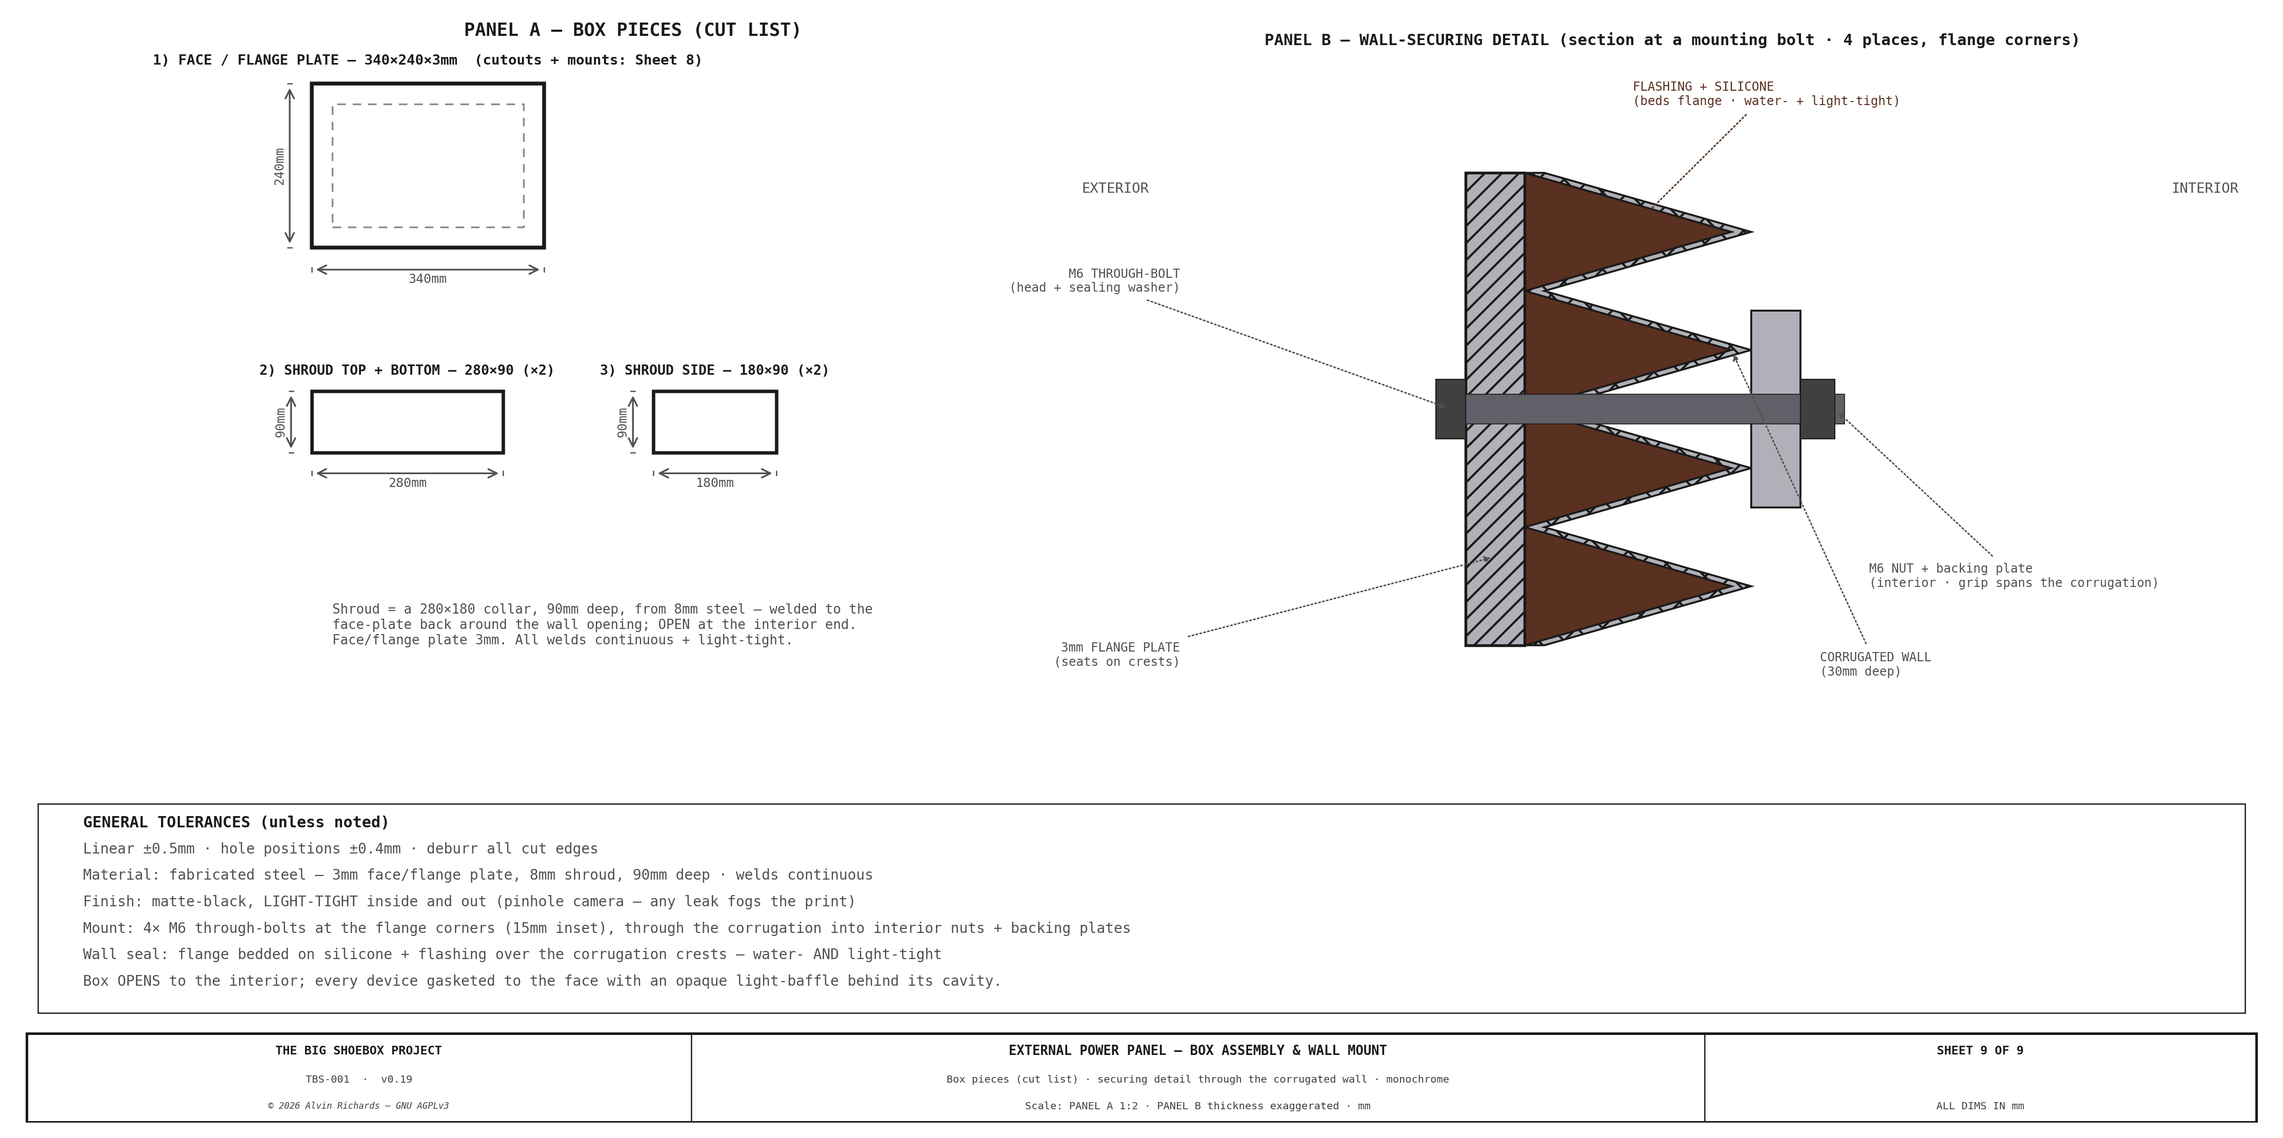
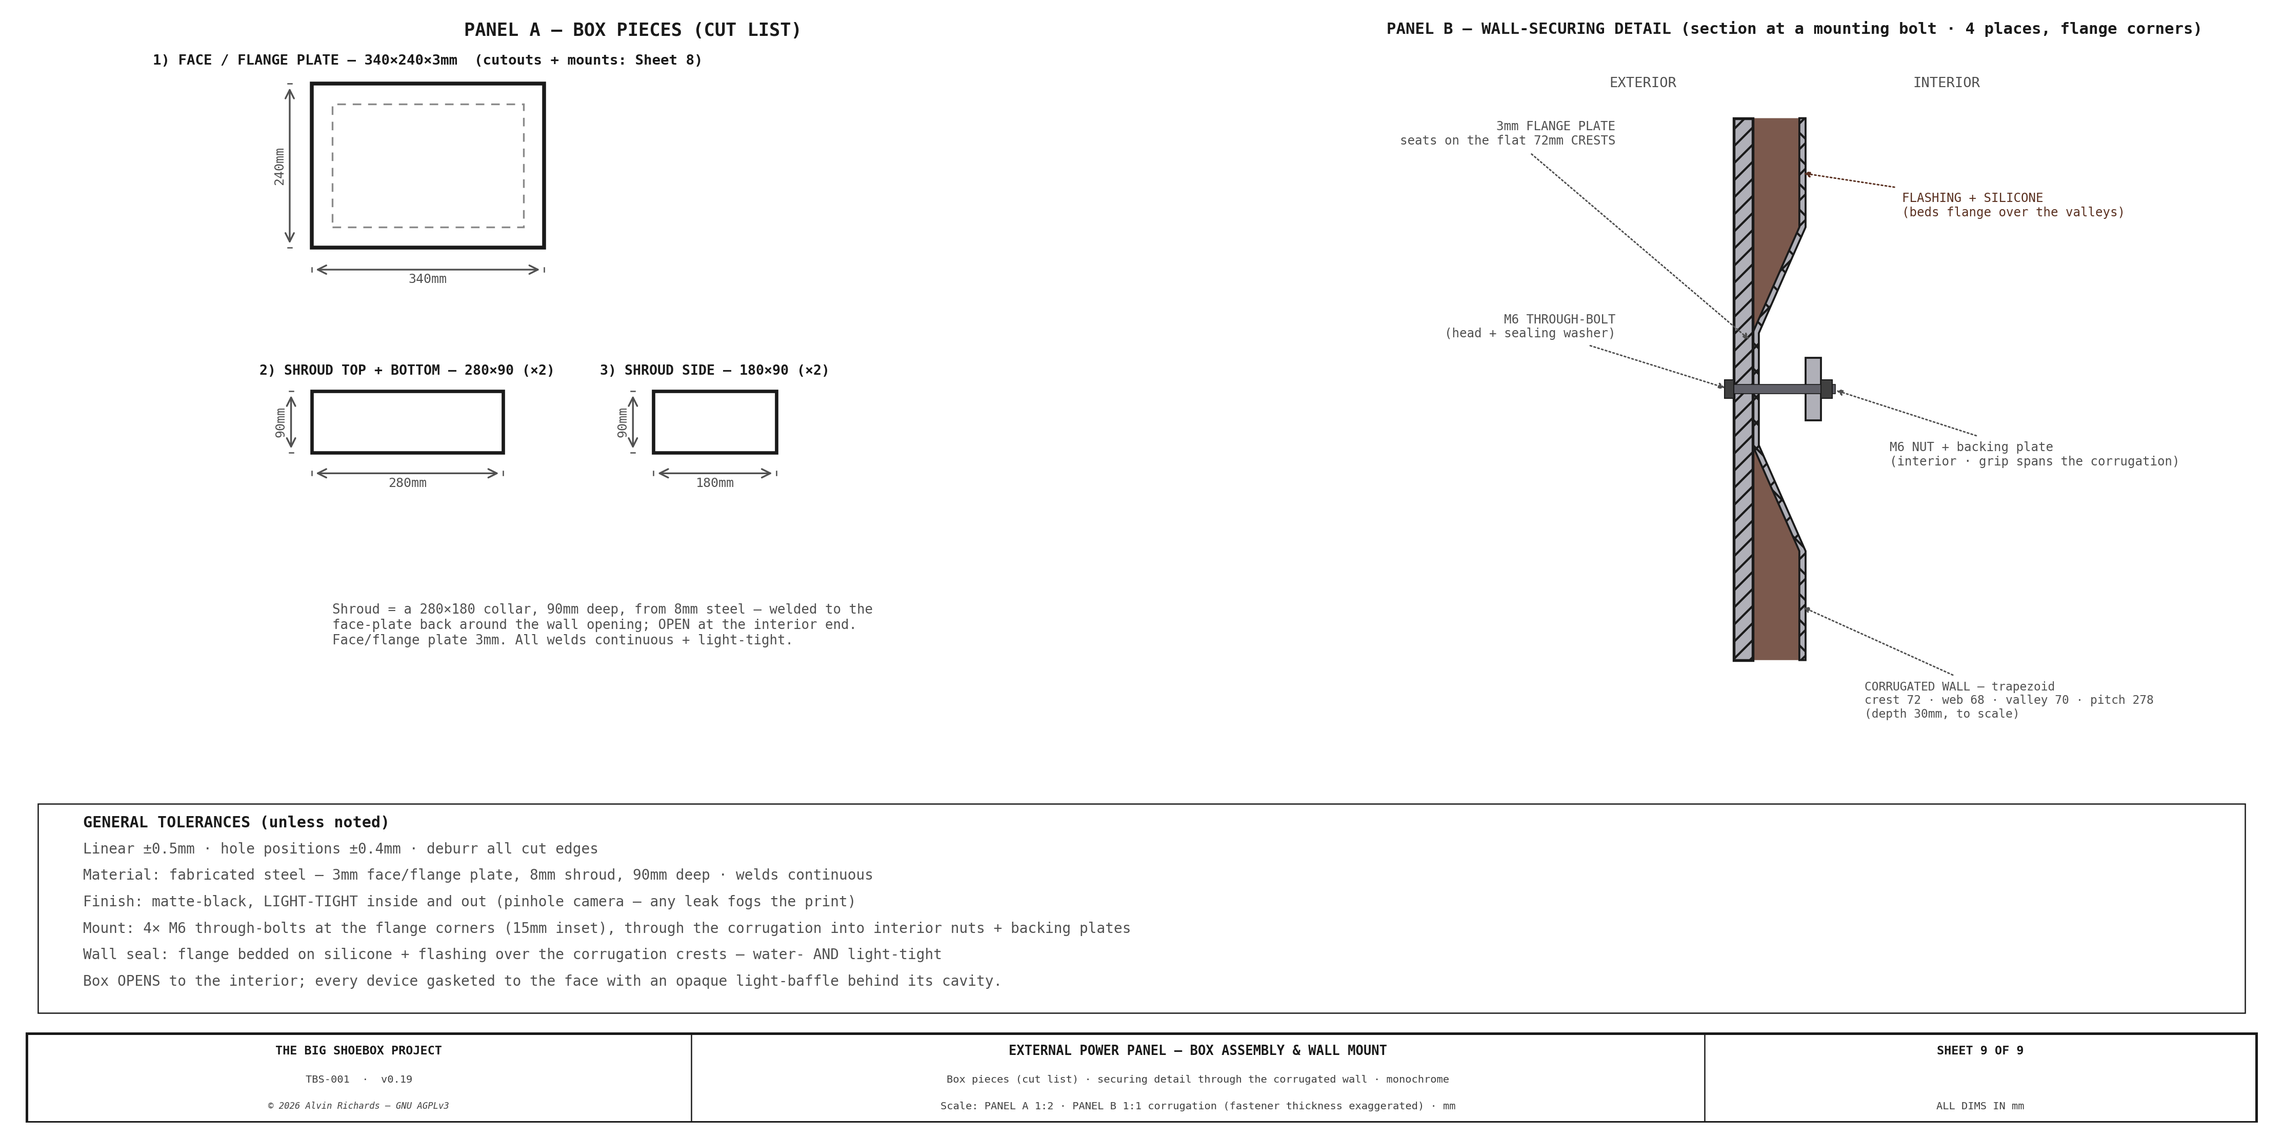
Electrical Sheet 9: draw the wall corrugation to-scale as a trapezoid, not a peak
The wall-securing detail (Panel B) drew the corrugated container side wall as a
triangular sawtooth, so the flange read as seating on a point. Researched the
real ISO-typical profile (trapezium: crest 72 / web 68 / valley 70 / depth 36 /
pitch 278mm; ISO 668 standardizes sizes, not corrugation geometry) and rebuilt
the section as a true 1:1 trapezoid: flat crests + sloped webs + flat valleys, a
crest centered on the bolt with a full valley each side, depth =
CONTAINER_CORRUGATION_DEPTH (30mm). Flange now seats on the flat 72mm crest and
bridges the valleys; profile dimensioned on the sheet. Fastener thickness stays
exaggerated. Rendered + visually verified; lint + hardwired-literal gates pass.
Sheet 6 (penetration box) has the same triangle — re-scoped in TODO for the
identical fix.

diff --git a/src/generators/generate_electrical_diagram.py b/src/generators/generate_electrical_diagram.py
@@ -2499,24 +2499,31 @@ def draw_sheet9():
     # seats on the corrugation CRESTS, the seal beds the flange↔wall interface, and the
     # through-bolt grip spans the ~30mm corrugation depth to an interior backing plate + nut.
     axb = fig.add_subplot(gs[0, 1]); axb.set_aspect("equal"); axb.axis("off")
-    axb.set_xlim(-40, 150); axb.set_ylim(-70, 80)
-    fex = 4.0                                     # flange/fastener scale (thin metal exaggerated)
-    dsc = 1.4                                      # corrugation-depth scale
-    CD = CONTAINER_CORRUGATION_DEPTH * dsc         # drawn corrugation depth (crest → trough)
-    ts = 4.0                                        # wall sheet thickness (exaggerated)
+    fex = 4.0                                      # fastener/flange scale (thin metal exaggerated)
+    ts  = 4.0                                        # wall sheet thickness (drawn)
+    CD  = CONTAINER_CORRUGATION_DEPTH               # 30mm corrugation depth — TRUE 1:1 scale
     CDi = CD + ts                                   # interior face of the troughs
     FTs = FT * fex                                  # flange thickness drawn
-    # corrugated wall sheet — exterior crests at x=0 (flange side), interior troughs at x=CD
-    ys = [-48, -36, -24, -12, 0, 12, 24, 36, 48]
-    outer = [(0.0 if i % 2 == 0 else CD, y) for i, y in enumerate(ys)]
-    axb.add_patch(mpatches.Polygon(outer + [(x + ts, y) for (x, y) in outer][::-1],
+    # ISO-typical side-wall corrugation (trapezium): crest 72 · web 68 · valley 70 · pitch 278mm
+    # (shipped.com 20'GP wall section). Drawn to the real along-wall scale so the flange seats on the
+    # FLAT crests (not points); depth = the project's conservative CONTAINER_CORRUGATION_DEPTH. A crest
+    # is centered on the bolt; one full valley shows each side (next crests fall outside this window).
+    CR, WB, VL = 72.0, 68.0, 70.0
+    YV = CR / 2 + WB + VL                            # 174 — central crest + a full valley each side
+    axb.set_xlim(-95, 150); axb.set_ylim(-YV - 60, YV + 66)
+    half, yq, i = [(0.0, CR / 2)], CR / 2, 0         # exterior surface (x, y) up from crest center
+    while yq < YV:
+        length, xend = [(WB, CD), (VL, CD), (WB, 0.0), (CR, 0.0)][i % 4]
+        yq += length; half.append((xend, min(yq, YV))); i += 1
+    ext = [(x, -y) for (x, y) in reversed(half)] + half   # crest-centered, flat crests + flat valleys
+    # corrugated wall sheet (constant thickness)
+    axb.add_patch(mpatches.Polygon(ext + [(x + ts, y) for (x, y) in ext][::-1],
                                    closed=True, fc=C_STEEL, ec=C_OUT, lw=0.9, hatch="xx", zorder=3))
-    # flashing + silicone — beds the flange to the corrugation (fills the exterior valleys)
-    for i in (0, 2, 4, 6):
-        axb.add_patch(mpatches.Polygon([(0, ys[i]), (CD, ys[i + 1]), (0, ys[i + 2])],
-                                       closed=True, fc=C_GASKT, ec=C_OUT, lw=0.4, zorder=2))
+    # flashing + silicone — fills the exterior valleys between the flat flange (x=0) and the receding wall
+    axb.add_patch(mpatches.Polygon(ext + [(0.0, YV), (0.0, -YV)],
+                                   closed=True, fc=C_GASKT, ec="none", alpha=0.8, zorder=2))
     # flange / face plate — flat, seats on the exterior crests
-    axb.add_patch(mpatches.Rectangle((-FTs, -48), FTs, 96, fc=C_STEEL, ec=C_OUT, lw=1.3, hatch="///", zorder=5))
+    axb.add_patch(mpatches.Rectangle((-FTs, -YV), FTs, 2 * YV, fc=C_STEEL, ec=C_OUT, lw=1.3, hatch="///", zorder=5))
     # interior backing plate — bridges the troughs, spreads the nut load
     axb.add_patch(mpatches.Rectangle((CDi, -20), 10, 40, fc=C_STEEL, ec=C_OUT, lw=0.9, zorder=5))
     # M6 through-bolt (head exterior, nut interior) — matched hex pair, thin axial × tall across-flats
@@ -2524,14 +2531,14 @@ def draw_sheet9():
     axb.add_patch(mpatches.Rectangle((-FTs - HEAD_THK, -HEX_AF / 2), HEAD_THK, HEX_AF, fc="#404040", ec=C_OUT, lw=0.5, zorder=7))   # hex head
     axb.add_patch(mpatches.Rectangle((-FTs, -SHANK_D / 2), (CDi + 10 + NUT_THK + 2) + FTs, SHANK_D, fc="#606068", ec=C_OUT, lw=0.4, zorder=6))  # shank
     axb.add_patch(mpatches.Rectangle((CDi + 10, -HEX_AF / 2), NUT_THK, HEX_AF, fc="#404040", ec=C_OUT, lw=0.5, zorder=7))            # hex nut
-    axb.text(-90, 44, "EXTERIOR", ha="left", fontsize=6.5, color=C_DIM, **FONT)
-    axb.text(145, 44, "INTERIOR", ha="right", fontsize=6.5, color=C_DIM, **FONT)
-    leader(axb, -FTs - HEAD_THK / 2, 0, -70, 26, f"M{MD} THROUGH-BOLT\n(head + sealing washer)", fs=5.8, color=C_DIM, ha="right", arrow_style="-|>", font=FONT)
-    leader(axb, CDi + 10 + NUT_THK, 0, 70, -34, f"M{MD} NUT + backing plate\n(interior · grip spans the corrugation)", fs=5.8, color=C_DIM, ha="left", arrow_style="-|>", font=FONT)
-    leader(axb, CD * 0.5, 36, 22, 64, "FLASHING + SILICONE\n(beds flange · water- + light-tight)", fs=5.8, color=C_GASKT, ha="left", arrow_style="-|>", font=FONT)
-    leader(axb, -FTs / 2, -30, -70, -50, f"{FT}mm FLANGE PLATE\n(seats on crests)", fs=5.8, color=C_DIM, ha="right", arrow_style="-|>", font=FONT)
-    leader(axb, CD, 12, 60, -52, f"CORRUGATED WALL\n({CONTAINER_CORRUGATION_DEPTH}mm deep)", fs=5.8, color=C_DIM, ha="left", arrow_style="-|>", font=FONT)
-    axb.text(30, 74, "PANEL B — WALL-SECURING DETAIL (section at a mounting bolt · 4 places, flange corners)", ha="center", fontsize=7.4, fontweight="bold", color=C_OUT, **FONT)
+    axb.text(-92, YV + 20, "EXTERIOR", ha="left", fontsize=6.5, color=C_DIM, **FONT)
+    axb.text(146, YV + 20, "INTERIOR", ha="right", fontsize=6.5, color=C_DIM, **FONT)
+    leader(axb, -FTs - HEAD_THK / 2, 0, -88, 40, f"M{MD} THROUGH-BOLT\n(head + sealing washer)", fs=5.8, color=C_DIM, ha="right", arrow_style="-|>", font=FONT)
+    leader(axb, CDi + 10 + NUT_THK, 0, 88, -42, f"M{MD} NUT + backing plate\n(interior · grip spans the corrugation)", fs=5.8, color=C_DIM, ha="left", arrow_style="-|>", font=FONT)
+    leader(axb, CD, CR / 2 + WB + VL / 2, 96, 118, "FLASHING + SILICONE\n(beds flange over the valleys)", fs=5.8, color=C_GASKT, ha="left", arrow_style="-|>", font=FONT)
+    leader(axb, 0, CR / 2 - 6, -88, YV - 10, f"{FT}mm FLANGE PLATE\nseats on the flat 72mm CRESTS", fs=5.8, color=C_DIM, ha="right", arrow_style="-|>", font=FONT)
+    leader(axb, CD, -(CR / 2 + WB + VL / 2), 72, -YV - 26, f"CORRUGATED WALL — trapezoid\ncrest 72 · web 68 · valley 70 · pitch 278\n(depth {CONTAINER_CORRUGATION_DEPTH}mm, to scale)", fs=5.5, color=C_DIM, ha="left", arrow_style="-|>", font=FONT)
+    axb.text(27, YV + 54, "PANEL B — WALL-SECURING DETAIL (section at a mounting bolt · 4 places, flange corners)", ha="center", fontsize=7.4, fontweight="bold", color=C_OUT, **FONT)
 
     # ══ notes ══
     notes = [
@@ -2549,7 +2556,7 @@ def draw_sheet9():
     title_block(ax_tb, "SHEET 9 OF 9",
                 drawing_title="EXTERNAL POWER PANEL — BOX ASSEMBLY & WALL MOUNT",
                 subtitle="Box pieces (cut list) · securing detail through the corrugated wall · monochrome",
-                scale_note="PANEL A 1:2 · PANEL B thickness exaggerated · mm", height=0.85)
+                scale_note="PANEL A 1:2 · PANEL B 1:1 corrugation (fastener thickness exaggerated) · mm", height=0.85)
     fig.savefig(f"{DIAGRAMS_DIR}/electrical-sheet9.png", dpi=DIAGRAM_DPI, bbox_inches="tight", facecolor="white")
     plt.close(fig)
     print("  → electrical-sheet9.png  Done.")

diff --git a/RELEASE.md b/RELEASE.md
@@ -26,6 +26,8 @@ is no separate publish step to run afterward.
 
 ## [Unreleased]
 
+- **Electrical Sheet 9 — the container-wall corrugation is now drawn to-scale as a trapezoid, not a sharp peak.** The wall-securing detail (Panel B) drew the corrugated side wall as a triangular sawtooth, so the flange appeared to seat on a *point*. Researched the real ISO-typical side-wall profile (manufacturer trapezium: crest 72 · web 68 · valley 70 · depth 36 · pitch 278 mm; ISO 668 standardizes sizes, not corrugation geometry — so it's typical, not universal) and rebuilt the section to a true 1:1 trapezoid with flat crests and flat valleys, a crest centered on the mounting bolt and a full valley each side, depth = the project's `CONTAINER_CORRUGATION_DEPTH` (30 mm). The flange now correctly seats on the flat 72 mm crest and bridges over the valleys (flashing/silicone fills the gap). Fastener thickness stays exaggerated; the profile is dimensioned on the sheet. **Open:** Sheet 6 (penetration box) draws the same wall with the same triangle — tracked in TODO.md for the identical fix.
+
 - **Report-wide parts reconciliation sweep — every engineering report now links to its filtered slice of the Master Shopping List, and 5 parts named in reports but missing from the registry were backfilled.** Each report's §Parts-List was audited against the single-source registry for completeness (the electrical §8 precedent, applied across all systems). Unlike electrical §8, the other reports' parts tables were already registry-injected (no hand-keyed drift) — but the reconciliation surfaced **5 genuine registry omissions**, each a discrete item a report names but the registry never carried: **spray manifold cushioned pipe clips** (+$8/$15), **IBC-2 Blue-supply low-level float switch** (+$8/$20), **IBC front-bar L-cleat angles ×8** (+$6/$20) — all in §5 water system — plus **weatherproof fan louvre grilles ×2** (§5b ventilation, +$20/$40) and the **right-walkway grating-bearer L-angle** (§6a, +$25/$75). Project TOTAL **+$67/$108/$150 → ~$27,799 / $32,664 / $39,559**. Every report's `## Parts List` now opens with a pointer to its **[Master Shopping List filtered view](master-shopping-list.md?system=…)** (multi-system reports use the comma-list filter, e.g. `?system=tray,spray`). Reports with no gaps: hinged-panel (4 blocks), film-plane, clamp, front-board, chemistry-prep-shelves, processing-tray. **ventilation-report §9** was then fully consolidated to the electrical-§8 pattern — the embedded `parts:ventilation` table dropped in favor of a reference to the filtered master BOM (its cost band stays in costing §5b); `ventilation` + the stale `electrical` entry removed from `parts.py` `SYSTEM_DOC`. The **same consolidation was then applied to all remaining reports** (water-system, plumbing, processing-tray, ibc-stacking, walkway, film-plane, film-clamp, pinhole-disc-holder, hinged-panel, chemistry-prep-shelves): every embedded `parts:<system>` table dropped in favor of the filtered-master-BOM reference, so **no report embeds a per-system parts table any more** (`SYSTEM_DOC` is now empty; the two plumbing panel sub-lists retired). Cost summaries (processing-tray, ibc, hinged-panel), film-plane's wall-seat-saddle / muslin-clamp / sourcing design content, and all cross-references were preserved and fixed (the ibc report now links to `?system=ibc-frame,water` so the totes surface; empty parts-subsections removed and the surviving cost tables relabeled). Per the owner's call the brochure PDF is left as-is: **the Project Cost Breakdown page (already in the brochure) is the PDF's parts/cost coverage** — it carries the same section- and subsystem-level costs and names every major component, so the itemized master BOM (SKUs, suppliers, per-part quantities) is deliberately kept **web-only** for the builder/buyer rather than added to the prospectus. (Brochure-parts decision closed.) Cascaded through `parts.py`, `costing.py` (WATER/WALKWAY/VENTILATION lists + EXPECTED water/walkway/ventilation/grand_total), and the scenario / funding / cost-analysis / master-summary injections. The reconciliation also **resolved the walkway standard-bracket count drift**: the registry/cost side was deliberately 11 (3 near + 8 far, per the 3D station math) but the walkway load-analysis generator (`walkway_load.py` §10.1/§10.4/§10.5 blocks) and the `costing.WALKWAY` labels still read 13/×59 — now propagated to 11/×53 everywhere, which surfaced a stale fastener count (the cantilever bolts had been corrected to 53 but their nuts/split-washers were left at 59 and flat washers at 236): fixed to 53/53/212, **−$5** (net sweep total therefore **+$62/$103/$145 → ~$27,794 / $32,659 / $39,554**). **Open (tracked in TODO.md):** the brochure PDF does not carry the full by-type BOM, so electrical/container/interior/optics parts are absent from the PDF — a decision on whether to include the Master Shopping List in the brochure.
 - **Electrical §8 parts list de-duplicated, a missing part backfilled, and the Master Shopping List gains a system deep-link filter.** The electrical report's hand-keyed **§8 parts table** — a drift-prone second copy of the parts registry (its prices had already diverged, e.g. the cooler inverter at ~$210 vs the registry's $132.60) — is replaced by the injected cost summary plus a link into the **[Master Shopping List filtered to the electrical system](master-shopping-list.md?system=electrical)**. Reconciling §8 against the registry exposed one genuine gap: the **inverter DC protection** (40 A ANL fuse + holder + dedicated DC disconnect on the Circuit-E inverter feed, **$40**) was listed in §8 but never in `parts.py`, so the electrical total under-counted a part **required by the Electrical Safety Report §7.6 rule 4**. Backfilled into the registry → electrical system total **$3,432 → $3,472**, systems grand total **$3,930 → $3,970**, project TOTAL **+$40** ($27,732 / $32,556 / $39,409). Separately, the BOM tables were already click-sortable; added a `?system=<a>,<b>,…` query-param **filter** to the tablesort init so a report can land the reader on just its slice of the by-type BOM (collapsing the empty type sections — fixed so Material's runtime table wrapper collapses too, leaving no empty gap). The Master Shopping List also carries an **on-page multi-select chip bar** (built from the systems present in the tables, so it never drifts) to add/remove systems without leaving the page; chips read and rewrite the same `?system=` param (OR-matched, shareable, no reload) — JS bumped to `?v=6`. Cascaded through `parts.py`, `costing.py` (Distribution line · §5a · EXPECTED power/grand), the scenario / funding / cost-analysis tables, and the master summary.
 - **Circuit C split into two independently-fused pump branches (B′) — enables a continuous flow-through wash.** The tray-drain pump (P-04) moves to its own fuse **C2** (10 A / 16 AWG), separate from the corridor pumps **C1** (15 A / 14 AWG), so a supply pump and the drain can run concurrently without any fuse at 100% of rating. A single **2-pole (DPST) master pump switch** still kills every pump in one throw — each pole carries only one 7.5 A pump, so nothing is uprated. Blue Sea 5026 goes 6→7 used. Cost **+$5** (single-pole → 2-pole switch, $7.99→$12.99); electrical system total **$3,459→$3,464**. Cascaded through the power budget (§3, peak 463→543 W), circuit list (§7.2), §7.3 wiring, parts/costing/shopping, the fuse-schedule + one-line + schematic diagrams (sheets 1/4/5/7), and the operating-manual fuse check. The 3D fuse-block re-send (electrical/overview/construction/water) is **pending** — tracked in docs/TODO.md. The wash **procedure** stays the fill-then-drain cycle; adopting continuous flow-through is a separate operating/water change (needs the water report's hydraulic sign-off that P-04 holds the tray level).

diff --git a/docs/TODO.md b/docs/TODO.md
@@ -44,9 +44,9 @@ Sheet 16 draws the **pull-out corner apron** (fixed full-width base + removable 
 
 - [ ] The Sheet-1 ENERGY SUMMARY block (`summary = [...]` in `draw_sheet1`) hard-codes session Wh / sessions-per-charge / solar-sessions / peak-load with a "update when specs change" comment — it had gone stale (780 Wh / 492 W / 1.5) and was hand-reconciled to 837 Wh / 543 W / 1.4 on 2026-11-16. Wire these to the injected `energy:`/`fact:` values (or a small shared constant) so the diagram can't drift from the report.
 
-## 📐 electrical-sheet9 — corrugated-wall section drawn as a peak, not a flat bridge (2026-11-16)
+## 📐 electrical-sheet6 — corrugated-wall section still drawn as a peak (2026-11-18)
 
-- [ ] On electrical-sheet9 (external power-panel box pieces + wall-securing detail) the container-wall **corrugation** is drawn as a sharp **peak/triangle**. Real ISO-container corrugation is closer to a **trapezoidal flat-topped bridge** (flat crest + sloped webs + flat valley), so the flange seats on a flat, not a point. Needs research for a better corrugation profile (trapezoid dims: crest width, pitch, depth, web angle for a standard 20ft corten side/end wall) and then update the section-drawing helper in `generate_electrical_diagram.py` (Sheet 9). Regenerate + re-check.
+- [ ] **Sheet 9 DONE** (2026-11-18): the wall-securing detail now draws the corrugation as a to-scale **trapezoid** (flat crest + sloped webs + flat valley; ISO-typical crest 72 · web 68 · valley 70 · pitch 278mm, depth = `CONTAINER_CORRUGATION_DEPTH`), so the flange seats on a flat 72mm crest, not a point. **Remaining:** `draw_sheet6` (`EXTERNAL POWER PANEL — PENETRATION BOX`) draws the SAME corrugated-wall section with the same triangular `corr_band` — apply the identical trapezoid profile there for consistency, then regenerate + re-check.
 
 ## ⏳ Light-trap parts-quote — pending research (2026-08-24)
 
